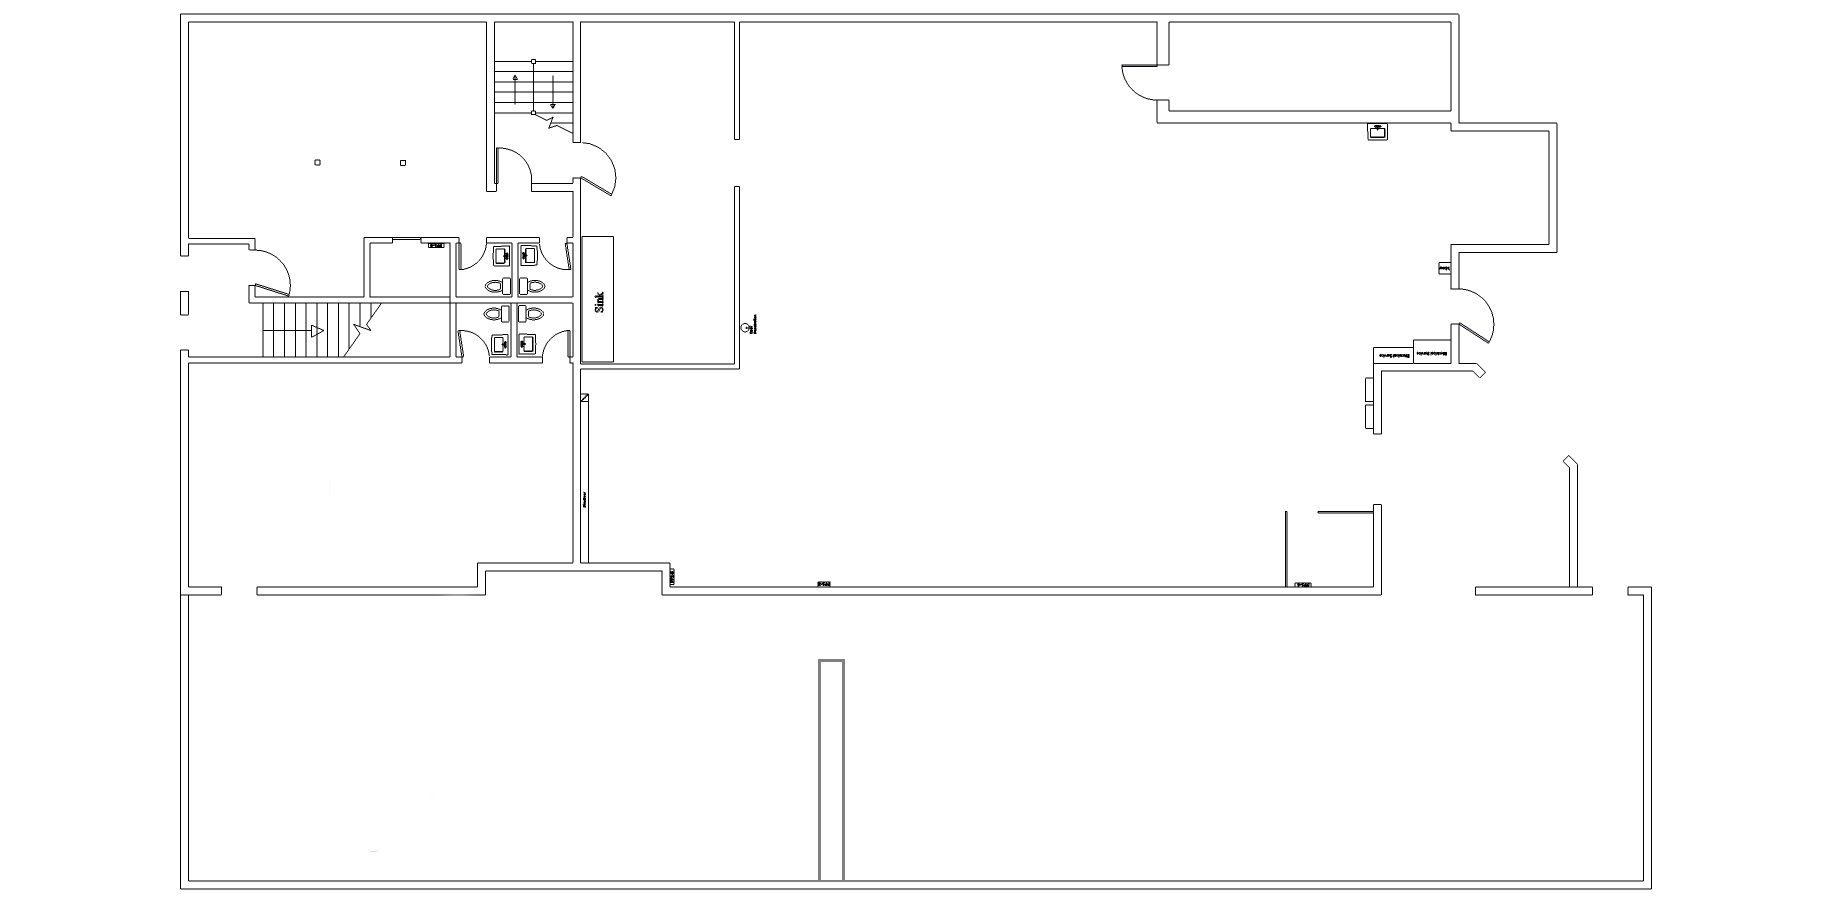
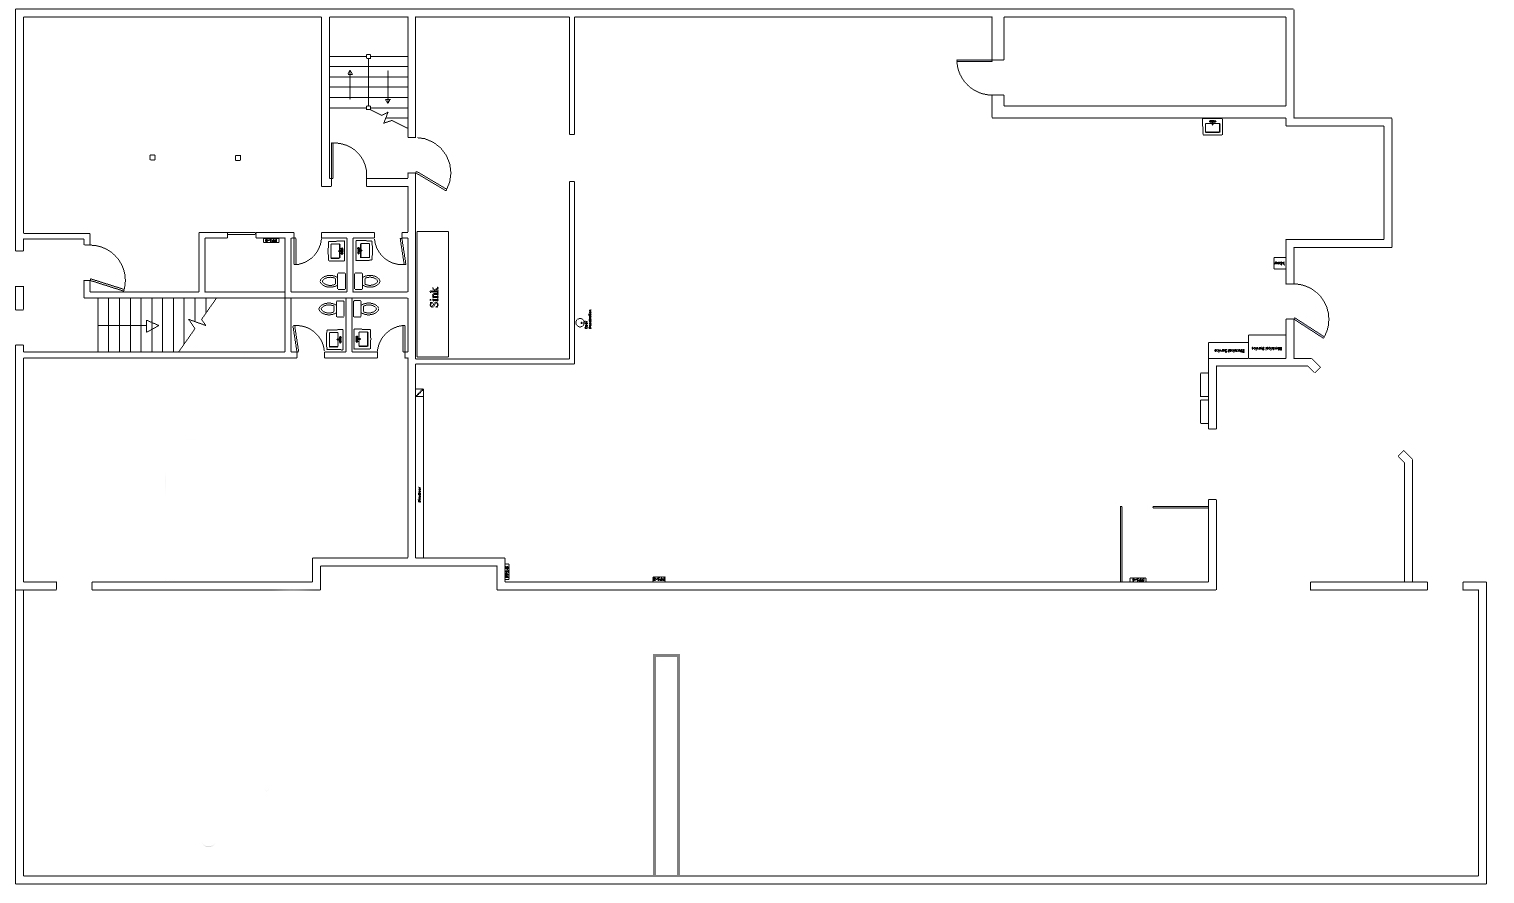
Working site

diff --git a/website/shop.html b/website/shop.html
@@ -1,5 +1,7 @@
 <html>
 <head>
+    <!-- Where all the sensors are located -->
+    <link rel="stylesheet" type="text/css" href="img/sensors.css">
     <title>PS1 ShopMon</title>
     <script type="text/javascript">
         window.onload = function () {
@@ -11,7 +13,8 @@
             }
 
             if (window["WebSocket"]) {
-                conn = new WebSocket("wss://" + document.location.host + "/ws");
+                //conn = new WebSocket("wss://" + document.location.host + "/ws");
+                conn = new WebSocket("ws://" + document.location.host + "/ws");
                 conn.onclose = function (evt) {
                     var item = document.createElement("div");
                     item.innerHTML = "<b>Connection closed.</b>";                    
@@ -59,23 +62,8 @@
         }        
     </script>
     <style>
-        /*
-         * Location IDs
-         * 
-         * These IDs are very important because they specify exactly
-         * where on the map to be shown. As you add more sensors, you
-         * must add those related IDs here to shown properly on the map
-         */
-         #hotmetals1 {
-            position: absolute;
-            top: 155px;
-            left: 880px;           
-        }
-
-        #hotmetals2 {
-            position: absolute;
-            top: 80px;
-            left: 740px;           
+        #title {
+            font-family: Arial, Helvetica, sans-serif;
         }
 
         /* The size of the activity gif, set on the server side */
@@ -139,7 +127,10 @@
     </style>
 </head>
 <body>
-    <img src="img/ps1firstfloor.jpg" />  
+    <h2 id="title">First Floor</h2>
+    <img src="img/Ps1_first_floor.jpg"  />  
+    <h2 id="title">Second Floor</h2>
+    <img src="img/Ps1_second_floor.jpg" /> 
     <pre><div id="debuginfo"></div></pre>
     <!-- 
         For each sensor, an initial div with the sensor ID should 
@@ -147,7 +138,14 @@
     -->
     <br/>
     Hey! If the info in the line above isn't changing (i.e. you should see the number increasing), refresh the page and it'll kick in again
-    <div id="hotmetals1"></div>
-    <div id="hotmetals2"></div>
+    <div id="HotMetals-Aux-1"></div>
+    <div id="HotMetals-Aux-2"></div>
+    <div id="CatWalk-1"></div>
+    <div id="CatWalk-2"></div>
+    <div id="Kitchen-1"></div>
+    <div id="Arts-1"></div>
+    <div id="Electronics-1"></div>
+    <div id="Lasers-1"></div>
+    <div id="Lounge-2"></div>
 </body>
 </html>

diff --git a/website/img/sensors.css b/website/img/sensors.css
@@ -1,0 +1,72 @@
+/* This CSS file contains the locations of each sensor on the map */
+
+/*
+* Location IDs
+* 
+* These IDs are very important because they specify exactly
+* where on the map to be shown. As you add more sensors, you
+* must add those related IDs here to shown properly on the map
+*/
+
+/* Pi-based sensor above welding table */
+#HotMetals-Aux-1 {
+    position: absolute;
+    top: 850px;
+    left: 420px;           
+}
+
+/* Pi-based sensor next to CNC plasma table */
+#HotMetals-Aux-2 {
+    position: absolute;
+    top: 680px;
+    left: 40px;           
+}
+
+/* Next to box pointing north near door */
+#CatWalk-1 {
+    position: absolute;
+    top: 1400px;
+    left: 850px;           
+}
+
+/* Next to box pointing south */
+#CatWalk-2 {
+    position: absolute;
+    top: 1800px;
+    left: 850px;           
+}
+
+/* SW corner above sinks pointing NE */
+#Kitchen-1 {
+    position: absolute;
+    top: 280px;
+    left: 500px;           
+}
+
+/* Above printer pointing NW into room */
+#Arts-1 {
+    position: absolute;
+    top: 1300px;
+    left: 250px;           
+}
+
+/* NE corner by bathroom pointing SW */
+#Electronics-1 {
+    position: absolute;
+    top: 1800px;
+    left: 350px;           
+}
+
+/* Above bathroom pointing NW */
+#Lasers-1 {
+    position: absolute;
+    top: 170px;
+    left: 170px;           
+}
+
+/* NE corner by bathroom pointing SW */
+#Lounge-2 {
+    position: absolute;
+    top: 510px;
+    left: 210px;           
+}

diff --git a/website/main.go b/website/main.go
@@ -3,10 +3,9 @@ package main
 import (
 	"flag"
 	"fmt"
-	"log"	
+	"log"
 	"net/http"
 	"time"
-	"strings"
 
 	"github.com/gorilla/websocket"
 )
@@ -17,7 +16,7 @@ import (
 // a struct so that more fields can be added later
 // if necessary
 type StatusMessage struct {
-    spaceStatus string
+	spaceStatus string
 }
 
 // Our channel that accepts StatusMessages
@@ -65,38 +64,32 @@ func (c *Client) readPump() {
 		c.hub.unregister <- c
 		c.conn.Close()
 	}()
-	
+
 	c.conn.SetReadLimit(maxMessageSize)
 	c.conn.SetReadDeadline(time.Now().Add(pongWait))
 	c.conn.SetPongHandler(func(string) error { c.conn.SetReadDeadline(time.Now().Add(pongWait)); return nil })
-	
+
 	for {
-		statusMsg := <- statusChannel
+		statusMsg := <-statusChannel
 
 		// We get a message that is in the form of:
-		// 		timestamp,sensor/topic name,1 or 0
-		// where the third field is a 1 or 0 to indicate that
-		// the sensor on the detected someone.
+		// 		timestamp,sensor
 		//
+		// By virtue of the fact we got a message means that
+		// we should indicate someone is in the space
 		// What we are going to do is send back to the client
-		// the message with an html snippet appended to it, either
-		// the image, if we want to show that someone is there, or
-		// just a <p/> which, of course, won't show anything.
+		// the message with an html snippet appended to it.
 		//
 		// Note that the CSS on the webpage sets up the size of the
 		// image via the "pulse" class, and it will use the topic
-		// name for matching against the css id.		
-		statusParts := strings.Split(statusMsg.spaceStatus, ",")
-		statusHTML := "<p/>"
-		if statusParts[2] == "1" {
-			statusHTML = "<img class=\"pulse\" src=\"/img/activity.gif\"/>"
-		}
+		// name for matching against the css id.
+		statusHTML := "<img class=\"pulse\" src=\"/img/activity.gif\"/>"
 
 		// And piece it all together
 		msgToSend := fmt.Sprintf("%s:%s", statusMsg.spaceStatus, statusHTML)
 
 		// And send t back to the client over the socket
-		log.Printf("Sending %s\n", msgToSend)		
+		log.Printf("Sending %s\n", msgToSend)
 		c.hub.broadcast <- []byte(msgToSend)
 
 		// To prevent overwhelming the client and to give the status
@@ -178,7 +171,7 @@ func serveHome(w http.ResponseWriter, r *http.Request) {
 		http.Error(w, "Method not allowed", http.StatusMethodNotAllowed)
 		return
 	}
-	
+
 	http.ServeFile(w, r, "shop.html")
 }
 
@@ -205,7 +198,7 @@ func main() {
 	http.Handle("/img/", http.StripPrefix("/img", fileServer))
 
 	// Set up the URLs we can handle
-	http.HandleFunc("/", serveHome)	
+	http.HandleFunc("/", serveHome)
 	http.HandleFunc("/ws", func(w http.ResponseWriter, r *http.Request) {
 		serveWs(hub, w, r)
 	})

diff --git a/website/mqtt.go b/website/mqtt.go
@@ -11,25 +11,24 @@ import (
 
 // MQTTServer is the URL to the MQTT server in the format of
 // "tcp://yourservername:port" (port is typically 1883)
-const mqttServer = ""
+const mqttServer = "tcp://10.10.1.224:1883"
 
 // The topic to listen on. This is specific to how your
 // topics are set up on the server. You can listen to more
 // than one at a time in a hierarchy with the octothorp ("#")
 // character (e.g. "/occupancy/#" )
-const topicName = ""
+const topicName = "shopmontopic"
 
 // The clientID must be a unique name for listening on the
 // topics, otherwise you may get disconnect errors
-const clientID = ""
-
+const clientID = "shopmon2"
 
 func onMessageReceived(client MQTT.Client, message MQTT.Message) {
-		log.Printf("Received message on topic: %s\nMessage: %s\n", message.Topic(), message.Payload())
-		var sm StatusMessage
-		sm.spaceStatus = string(message.Payload())
-		// And send it to our buffered channel for the websocket portion to handle
-		statusChannel <- sm
+	log.Printf("Received message on topic: %s\nMessage: %s\n", message.Topic(), message.Payload())
+	var sm StatusMessage
+	sm.spaceStatus = string(message.Payload())
+	// And send it to our buffered channel for the websocket portion to handle
+	statusChannel <- sm
 }
 
 func listenOnTopic() {
